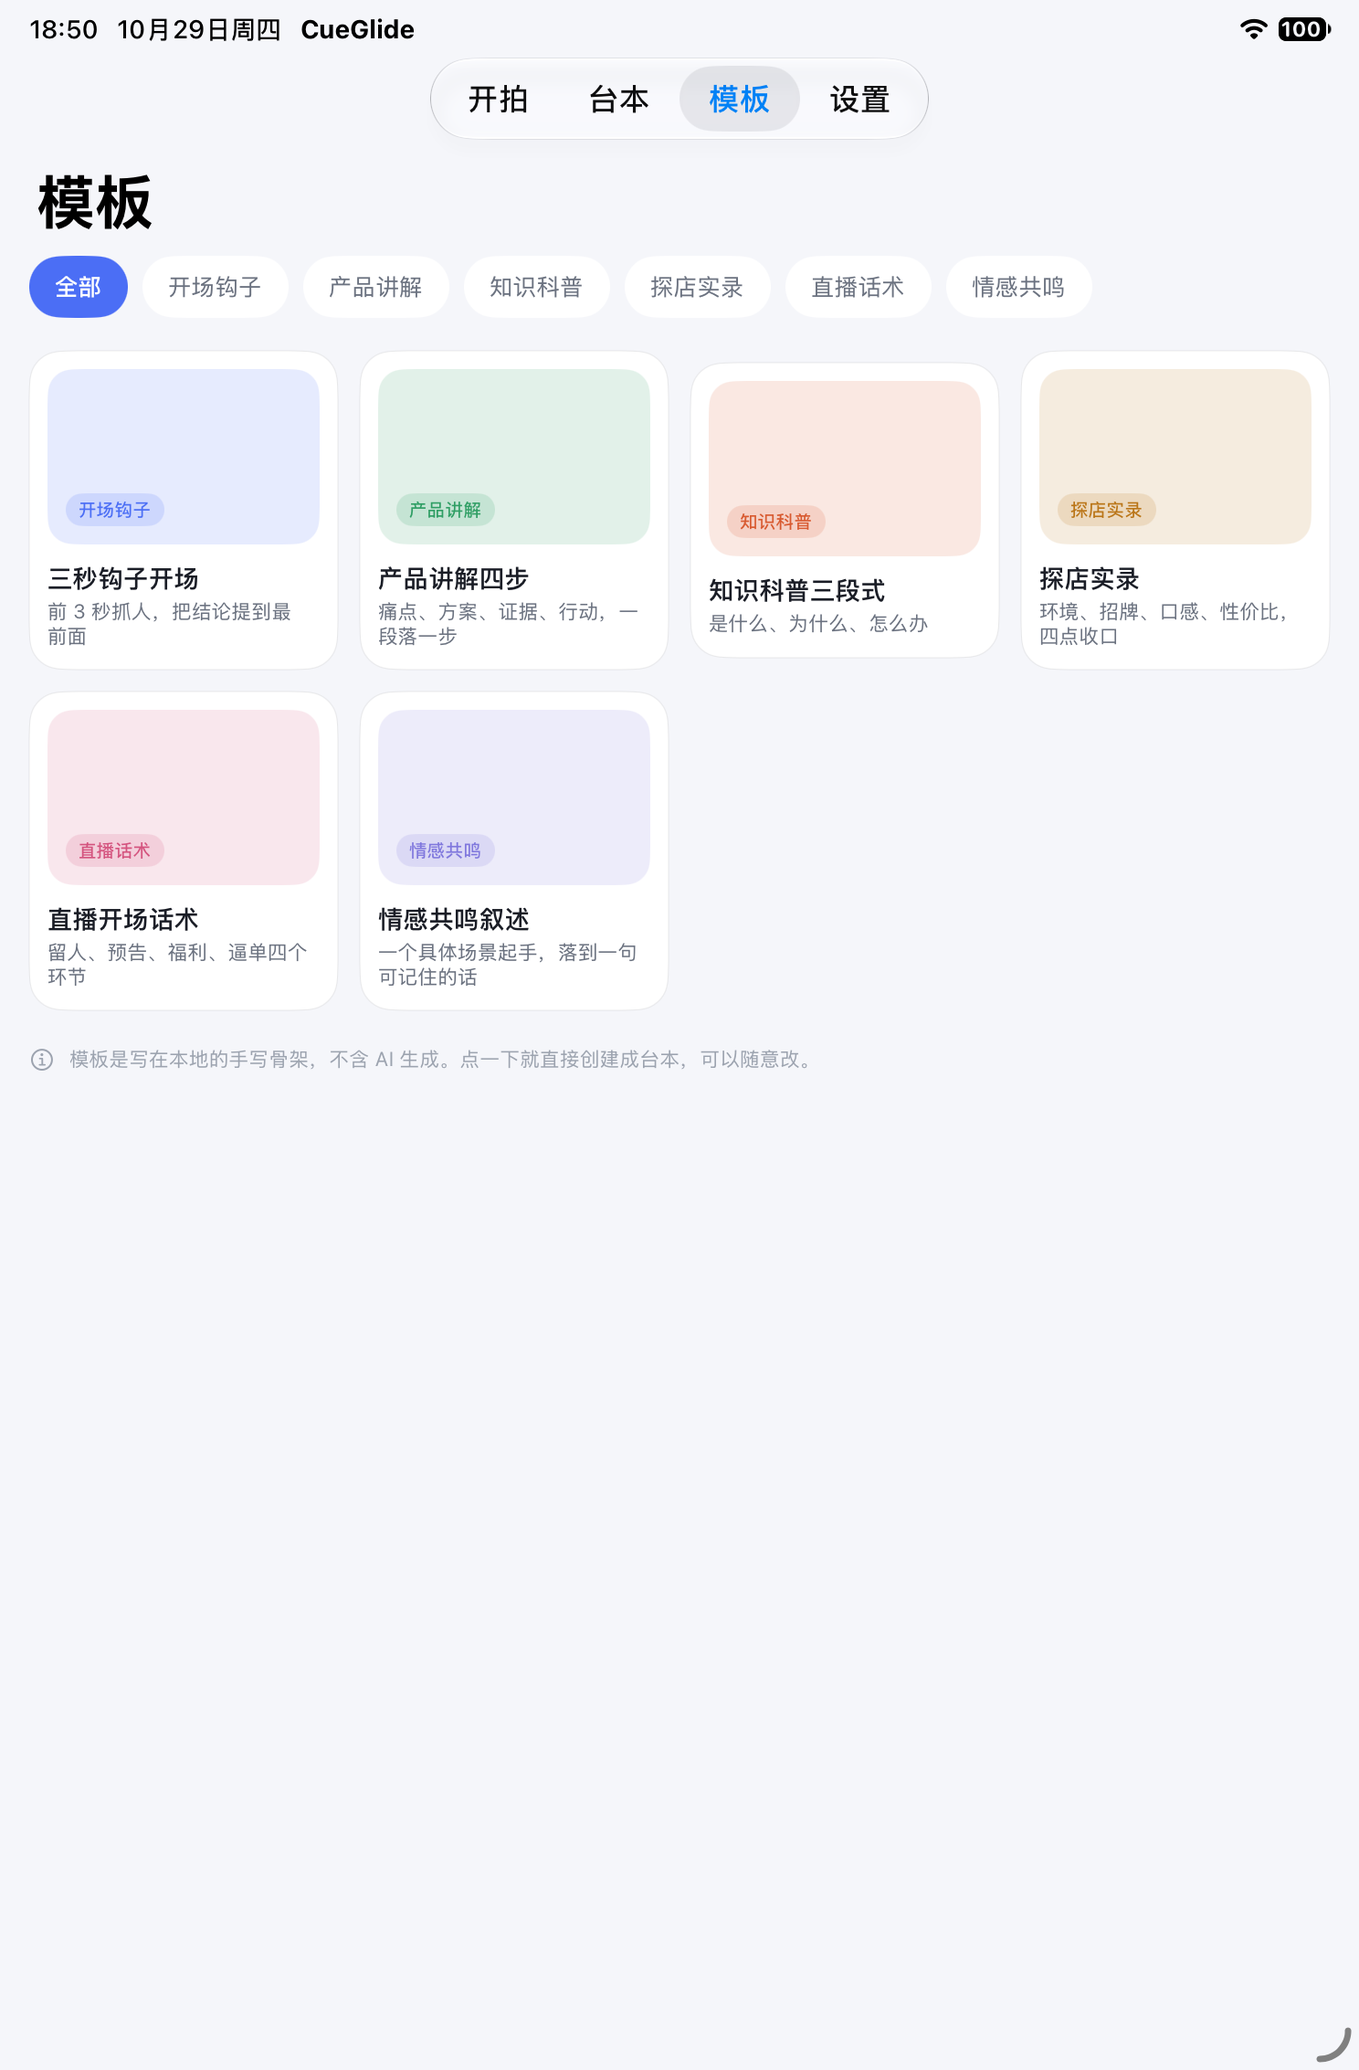
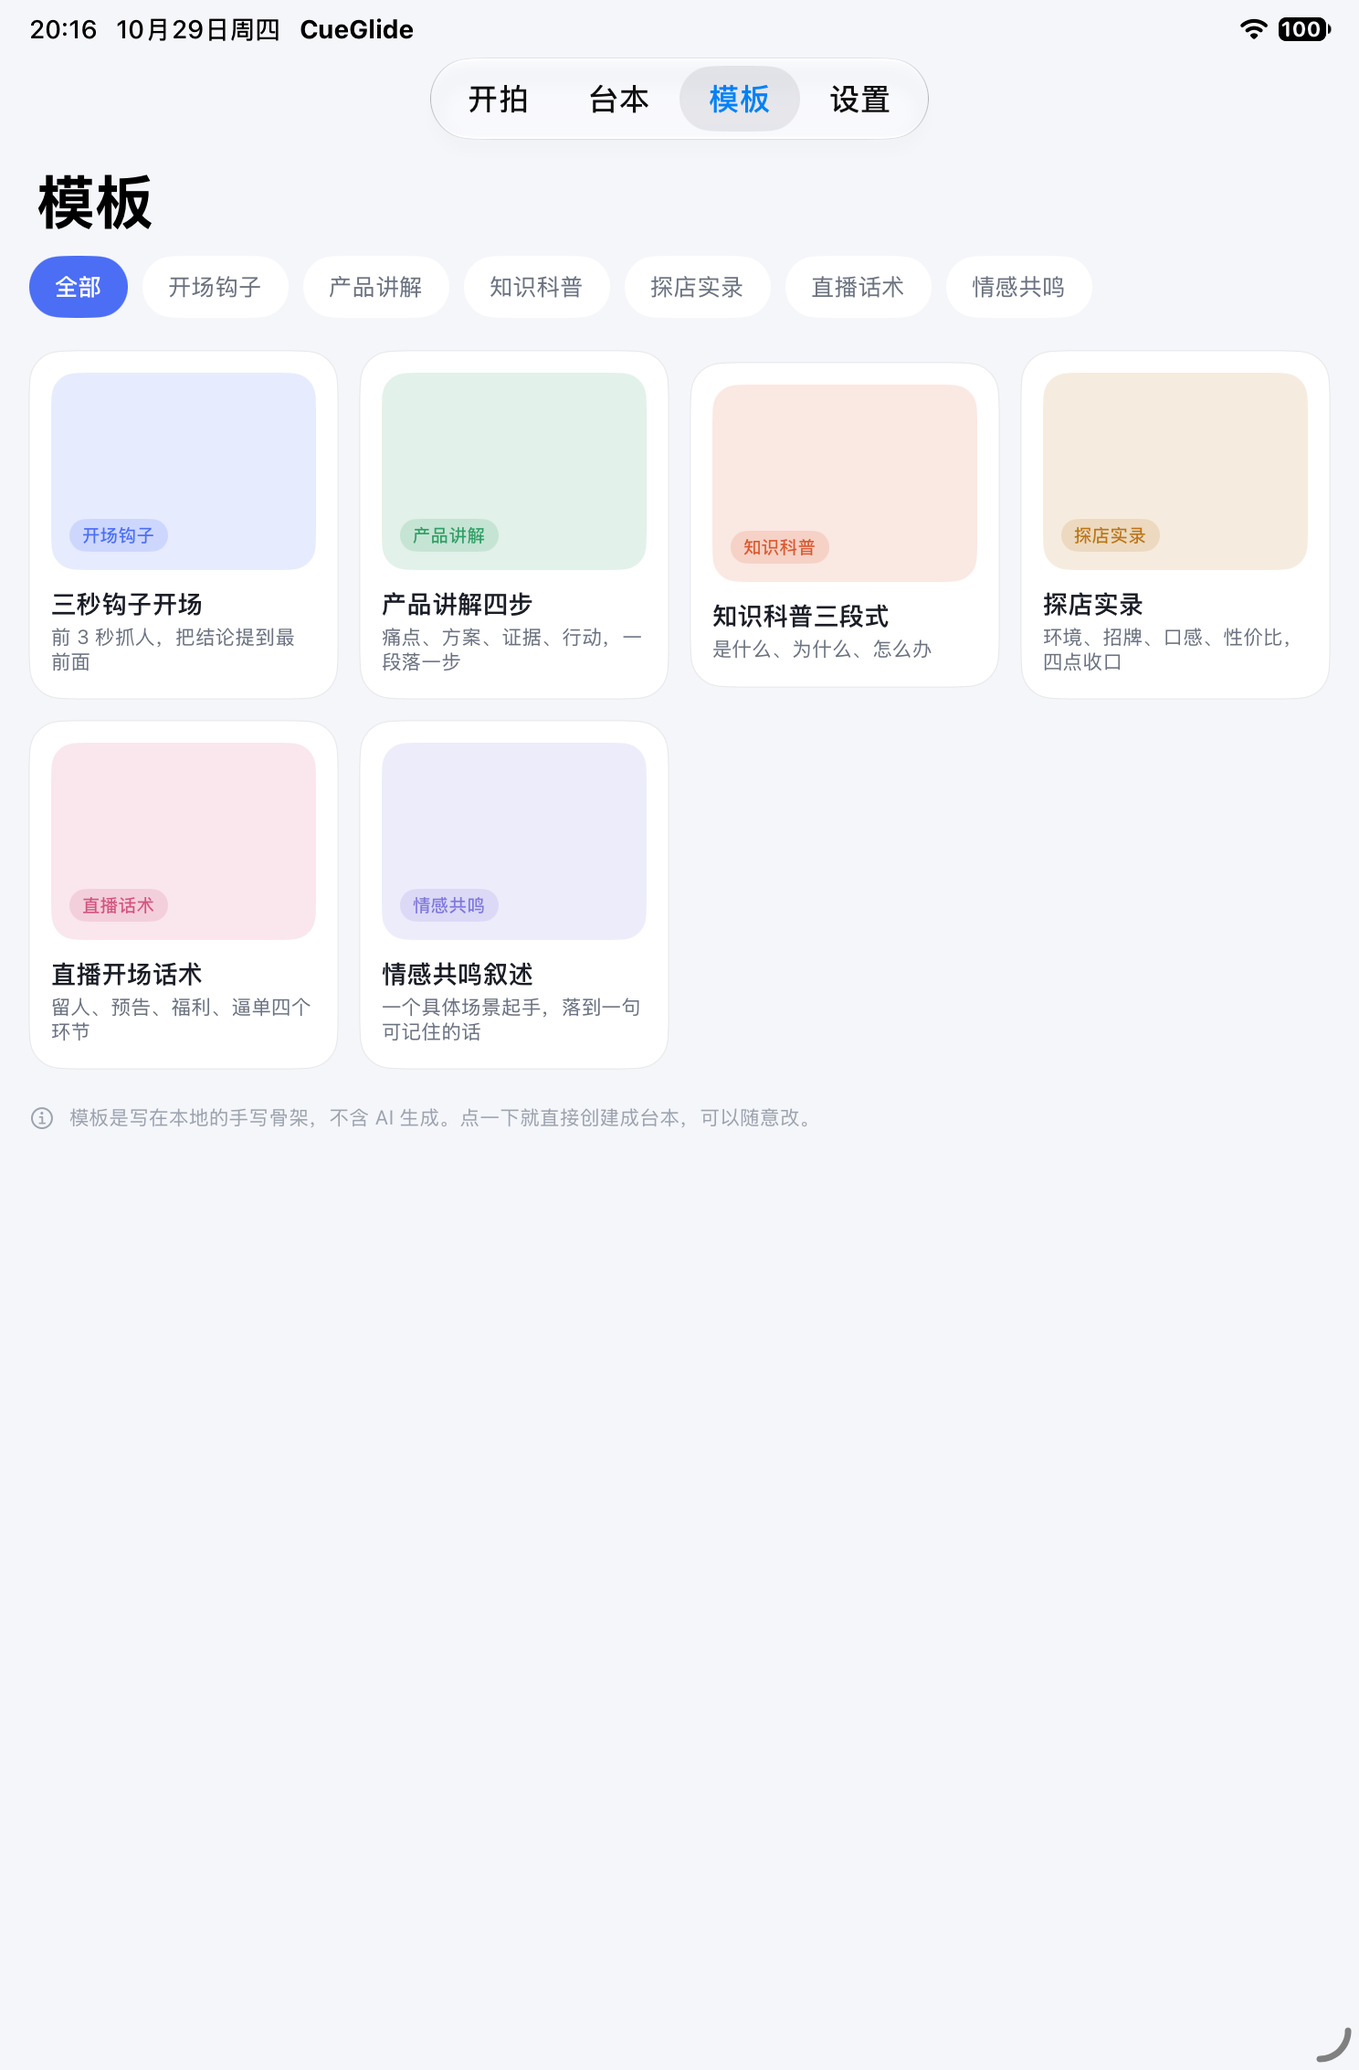
feat: 0.0.2 阅读线上移与卡片留白
- 提词页阅读线从屏高 20% 上移到 14%，默认更贴近前置摄像头，视线更接近镜头轴心
- 顶部按钮上移收缩至 38pt，与首行文字不再重叠；顶部渐隐高度收窄到阅读线位置
- 台本卡片、首页主卡、快捷入口、模板卡片的行距与内边距统一加大
- 修复文本视图布局被手动 frame 干扰导致高度为 1pt、文字不渲染的问题，改由宿主容器接管并在 layoutSubviews 中撑满
- 修复首帧在 0x0 尺寸下测量失败后永不再测的问题，未测出时强制重建

diff --git a/CueGlide/Core/PromptEngine/PrompterRenderer.swift b/CueGlide/Core/PromptEngine/PrompterRenderer.swift
@@ -4,6 +4,36 @@ import UIKit
 /// 1. 把稿件排版成一份 NSAttributedString，并缓存「词 → 行 → y 坐标」；
 /// 2. 按浮点词索引设置 contentOffset；
 /// 3. 增量更新已读变淡与当前词高亮，每次只改 1–3 个词的属性。
+/// 承载 UITextView 的容器。SwiftUI 只管理这个容器，容器自己把 textView 撑满，
+/// 避免 UIViewRepresentable 的自动布局与手动设 frame 打架导致高度为 1。
+final class PrompterHostView: UIView {
+
+    let textView = UITextView(usingTextLayoutManager: false)
+    var onLayout: ((CGSize) -> Void)?
+    private var lastSize: CGSize = .zero
+
+    override init(frame: CGRect) {
+        super.init(frame: frame)
+        addSubview(textView)
+    }
+
+    required init?(coder: NSCoder) {
+        fatalError("init(coder:) has not been implemented")
+    }
+
+    override func layoutSubviews() {
+        super.layoutSubviews()
+        if textView.frame != bounds {
+            textView.frame = bounds
+        }
+        guard bounds.width > 1, bounds.height > 1 else { return }
+        if abs(bounds.width - lastSize.width) > 0.5 || abs(bounds.height - lastSize.height) > 0.5 {
+            lastSize = bounds.size
+            onLayout?(bounds.size)
+        }
+    }
+}
+
 @MainActor
 final class PrompterRenderer {
 
@@ -18,7 +48,8 @@ final class PrompterRenderer {
         let minY: CGFloat
     }
 
-    let textView: UITextView
+    let hostView: PrompterHostView
+    var textView: UITextView { hostView.textView }
 
     private(set) var tokenized: TokenizedScript
     private(set) var config: DisplayConfig
@@ -34,7 +65,8 @@ final class PrompterRenderer {
         self.config = config
 
         // 提词需要全篇精确坐标，用 TextKit 1 的 NSLayoutManager 一次性测量更直接。
-        let view = UITextView(usingTextLayoutManager: false)
+        let host = PrompterHostView()
+        let view = host.textView
         view.isEditable = false
         view.isSelectable = false
         view.isScrollEnabled = true
@@ -46,7 +78,7 @@ final class PrompterRenderer {
         view.textContainerInset = .zero
         view.contentInset = .zero
         view.layoutManager.allowsNonContiguousLayout = false
-        self.textView = view
+        self.hostView = host
 
         rebuildText()
     }
@@ -68,7 +100,8 @@ final class PrompterRenderer {
         }
         config = newConfig
 
-        if needsRebuild || abs(width - lastLayoutWidth) > 0.5 {
+        // 上一次测量如果在视图还没布局时失败，参数虽未变也必须重建，否则永远测不出来。
+        if needsRebuild || !isMeasured || abs(width - lastLayoutWidth) > 0.5 {
             rebuildText(width: width)
         } else {
             textView.backgroundColor = config.palette.background
@@ -79,14 +112,6 @@ final class PrompterRenderer {
 
     private func rebuildText(width: CGFloat = 0) {
         lastLayoutWidth = width
-        if width > 1 {
-            textView.frame = CGRect(
-                x: textView.frame.minX,
-                y: textView.frame.minY,
-                width: width,
-                height: max(textView.frame.height, 1)
-            )
-        }
         textView.backgroundColor = config.palette.background
         textView.textContainerInset = insets(for: viewportHeight, width: width)
 
@@ -113,7 +138,7 @@ final class PrompterRenderer {
         let layoutManager = textView.layoutManager
         let textContainer = textView.textContainer
         let storage = textView.textStorage
-        guard storage.length > 0, textView.bounds.width > 1 else {
+        guard storage.length > 0, textView.bounds.width > 1, textView.bounds.height > 1 else {
             lines = []
             metrics = Metrics()
             return
@@ -175,10 +200,15 @@ final class PrompterRenderer {
 
     /// 视口尺寸确定或变化后调用，重设内容内边距并重新测量。
     func setViewportHeight(_ height: CGFloat) {
-        guard height > 1, abs(height - viewportHeight) > 1 else { return }
-        viewportHeight = height
-        textView.textContainerInset = insets(for: height)
-        measure()
+        guard height > 1 else { return }
+        let changed = abs(height - viewportHeight) > 1
+        if changed {
+            viewportHeight = height
+            textView.textContainerInset = insets(for: height)
+        }
+        if changed || !isMeasured {
+            measure()
+        }
     }
 
     /// 宽度变化时（折叠展开、旋转、外接屏）重算列宽与内边距。

diff --git a/CueGlide/Features/Prompter/PrompterView.swift b/CueGlide/Features/Prompter/PrompterView.swift
@@ -22,6 +22,7 @@ struct PrompterView: View {
                 background.ignoresSafeArea()
 
                 PrompterTextHost(renderer: viewModel.renderer)
+                    .frame(maxWidth: .infinity, maxHeight: .infinity)
                     .scaleEffect(
                         x: viewModel.display.mirror.flipsHorizontally ? -1 : 1,
                         y: viewModel.display.mirror.flipsVertically ? -1 : 1
@@ -68,13 +69,13 @@ struct PrompterView: View {
                 LinearGradient(
                     stops: [
                         .init(color: background, location: 0),
-                        .init(color: background, location: 0.55),
+                        .init(color: background, location: 0.68),
                         .init(color: background.opacity(0), location: 1)
                     ],
                     startPoint: .top,
                     endPoint: .bottom
                 )
-                .frame(height: 140)
+                .frame(height: 122)
             }
             .overlay(alignment: .bottom) {
                 LinearGradient(
@@ -141,7 +142,7 @@ struct PrompterView: View {
                 } label: {
                     Image(systemName: "xmark")
                         .font(.system(size: 15, weight: .semibold))
-                        .frame(width: 40, height: 40)
+                        .frame(width: 38, height: 38)
                 }
                 .buttonStyle(.plain)
                 .glassEffect(.regular, in: .circle)
@@ -155,13 +156,13 @@ struct PrompterView: View {
                 } label: {
                     Image(systemName: "arrow.left.arrow.right")
                         .font(.system(size: 14, weight: .semibold))
-                        .frame(width: 40, height: 40)
+                        .frame(width: 38, height: 38)
                 }
                 .buttonStyle(.plain)
                 .glassEffect(.regular, in: .circle)
             }
             .padding(.horizontal, 16)
-            .padding(.top, 54)
+            .padding(.top, 46)
 
             Spacer()
 
@@ -270,11 +271,16 @@ struct PrompterView: View {
 private struct PrompterTextHost: UIViewRepresentable {
     let renderer: PrompterRenderer
 
-    func makeUIView(context: Context) -> UITextView {
-        renderer.textView
+    func makeUIView(context: Context) -> PrompterHostView {
+        renderer.hostView
     }
 
-    func updateUIView(_ uiView: UITextView, context: Context) {}
+    func updateUIView(_ uiView: PrompterHostView, context: Context) {}
+
+    /// UIViewRepresentable 没有固有尺寸，不显式声明的话 SwiftUI 可能给 0 高度。
+    func sizeThatFits(_ proposal: ProposedViewSize, uiView: PrompterHostView, context: Context) -> CGSize? {
+        CGSize(width: proposal.width ?? 0, height: proposal.height ?? 0)
+    }
 }
 
 // MARK: - 参数面板

diff --git a/CueGlide/Features/Home/HomeView.swift b/CueGlide/Features/Home/HomeView.swift
@@ -68,7 +68,7 @@ struct HomeView: View {
     // MARK: - 主卡
 
     private func heroCard(_ script: Script) -> some View {
-        VStack(alignment: .leading, spacing: 14) {
+        VStack(alignment: .leading, spacing: 16) {
             HStack(spacing: 6) {
                 Image(systemName: "clock.arrow.circlepath")
                     .font(.system(size: 11, weight: .semibold))
@@ -112,7 +112,7 @@ struct HomeView: View {
                 .buttonStyle(.plain)
             }
         }
-        .padding(18)
+        .padding(20)
         .frame(maxWidth: .infinity, alignment: .leading)
         .background(Theme.surface, in: .rect(cornerRadius: Theme.cardRadius))
         .overlay {
@@ -130,7 +130,7 @@ struct HomeView: View {
                 .font(Theme.captionFont)
                 .foregroundStyle(Theme.textSecondary)
         }
-        .padding(18)
+        .padding(20)
         .frame(maxWidth: .infinity, alignment: .leading)
         .background(Theme.surface, in: .rect(cornerRadius: Theme.cardRadius))
         .overlay {
@@ -205,8 +205,8 @@ struct HomeView: View {
                     .foregroundStyle(Theme.textSecondary)
                     .lineLimit(1)
             }
-            .padding(14)
-            .frame(maxWidth: .infinity, minHeight: 108, alignment: .leading)
+            .padding(16)
+            .frame(maxWidth: .infinity, minHeight: 122, alignment: .leading)
             .background(tint, in: .rect(cornerRadius: 16))
         }
         .buttonStyle(.plain)

diff --git a/CueGlide/Features/Scripts/ScriptListView.swift b/CueGlide/Features/Scripts/ScriptListView.swift
@@ -157,7 +157,7 @@ struct ScriptListView: View {
     // MARK: - 卡片
 
     private func scriptCard(_ script: Script) -> some View {
-        VStack(alignment: .leading, spacing: 10) {
+        VStack(alignment: .leading, spacing: 13) {
             HStack(alignment: .top, spacing: 10) {
                 Image(systemName: "doc.text.fill")
                     .font(.system(size: 13))
@@ -165,7 +165,7 @@ struct ScriptListView: View {
                     .padding(8)
                     .background(Theme.brandSoft, in: .rect(cornerRadius: 9))
 
-                VStack(alignment: .leading, spacing: 4) {
+                VStack(alignment: .leading, spacing: 6) {
                     Text(script.title.isEmpty ? "未命名台本" : script.title)
                         .font(.system(size: 16, weight: .semibold))
                         .foregroundStyle(Theme.textPrimary)
@@ -223,7 +223,7 @@ struct ScriptListView: View {
             .font(.system(size: 11))
             .foregroundStyle(Theme.textTertiary)
         }
-        .padding(14)
+        .padding(16)
         .frame(maxWidth: .infinity, alignment: .leading)
         .background(Theme.surface, in: .rect(cornerRadius: Theme.cardRadius))
         .overlay {

diff --git a/CueGlide/Features/Templates/TemplatesView.swift b/CueGlide/Features/Templates/TemplatesView.swift
@@ -75,7 +75,7 @@ struct TemplatesView: View {
                 ZStack(alignment: .bottomLeading) {
                     RoundedRectangle(cornerRadius: 14, style: .continuous)
                         .fill(Color(uiColor: UIColor(rgb: template.accentHex)).opacity(0.14))
-                        .frame(height: 96)
+                        .frame(height: 108)
 
                     Text(template.scene)
                         .font(.system(size: 10, weight: .medium))
@@ -103,7 +103,7 @@ struct TemplatesView: View {
                     .padding(.top, 3)
                     .padding(.bottom, 2)
             }
-            .padding(10)
+            .padding(12)
             .frame(maxWidth: .infinity, alignment: .leading)
             .background(Theme.surface, in: .rect(cornerRadius: 18))
             .overlay {

diff --git a/CueGlide/Features/Settings/SettingsView.swift b/CueGlide/Features/Settings/SettingsView.swift
@@ -257,7 +257,7 @@ struct SettingsView: View {
             content()
         }
         .padding(.horizontal, 16)
-        .padding(.vertical, 10)
+        .padding(.vertical, 12)
         .frame(maxWidth: .infinity, alignment: .leading)
         .background(Theme.surface, in: .rect(cornerRadius: 16))
         .overlay {
@@ -310,7 +310,7 @@ struct SettingsView: View {
 
 extension Bundle {
     var appVersion: String {
-        let short = infoDictionary?["CFBundleShortVersionString"] as? String ?? "0.0.1"
+        let short = infoDictionary?["CFBundleShortVersionString"] as? String ?? "0.0.2"
         let build = infoDictionary?["CFBundleVersion"] as? String ?? "1"
         return "\(short) (\(build))"
     }

diff --git a/CueGlide/Models/PromptConfig.swift b/CueGlide/Models/PromptConfig.swift
@@ -44,9 +44,9 @@ enum ReadingLinePosition: String, Codable, CaseIterable, Sendable, Identifiable 
     /// 阅读线距离屏幕顶部的比例，用来算 contentOffset 的锚点。
     var viewportRatio: Double {
         switch self {
-        case .nearCamera: 0.20
-        case .center: 0.42
-        case .lower: 0.62
+        case .nearCamera: 0.14
+        case .center: 0.38
+        case .lower: 0.58
         }
     }
 }

diff --git a/CueGlide/Features/Prompter/PrompterViewModel.swift b/CueGlide/Features/Prompter/PrompterViewModel.swift
@@ -36,6 +36,11 @@ final class PrompterViewModel {
         engine.onFrame = { [weak self] position in
             self?.handleFrame(position)
         }
+        renderer.hostView.onLayout = { [weak self] size in
+            MainActor.assumeIsolated {
+                self?.updateViewport(size)
+            }
+        }
     }
 
     // MARK: - 布局

diff --git a/docs/设计说明.md b/docs/设计说明.md
@@ -73,13 +73,13 @@
 |---|---|---|
 | 顶部 | 安全区下方 8pt 起 | 关闭按钮、镜像切换 |
 | 阅读区 | 约 62% | 滚动文本，首行位于阅读线上 |
-| 阅读线 | 距顶部约 18%–20% | 视觉锚点，默认贴近前置摄像头，可在设置中关闭参考线 |
+| 阅读线 | 距顶部约 14% | 视觉锚点，默认贴近前置摄像头，可在设置中关闭参考线 |
 | 底部控制区 | 约 20% | 进度、剩余时长、播放、字号、设置 |
 
 ### 4.2 视觉规则
 
 1. 阅读线默认贴近前置摄像头，让视线尽量接近镜头轴心，避免观众看出在读稿。
-2. 文本区上下各设渐隐遮罩，顶部 140pt、底部 260pt，避免文字硬切边缘。
+2. 文本区上下各设渐隐遮罩。顶部渐隐高度等于阅读线位置（屏高约 14%），底部 260pt，避免文字硬切边缘。
 3. 控制条播放后 3 秒自动淡出，点按屏幕唤回；淡出时保留进度指示。
 4. 镜像只作用于文字层，控制层保持正向；点击坐标反算回原坐标系。
 5. 已读文字降到 32% 不透明度，当前词高亮并加浅色背景块，未读保持主文字色。
@@ -278,6 +278,8 @@ ScrollConfig（滚动参数）
 5. **SF Symbol 在中文环境会本地化**。`textformat.size.smaller/larger` 会渲染成汉字，部分符号不可用会渲染成方块。提词页控制按钮改用 `minus` / `plus` / `arrow.left.arrow.right`。
 6. **浮动标签栏会遮挡内容**。滚动内容底部留白需 ≥96pt。
 7. **`CADisplayLink` 的 selector 回调**在 `@MainActor` 类中可直接使用，回调发生在主线程。
+8. **`UIViewRepresentable` 承载 `UITextView` 时不要手动设 frame**。SwiftUI 的自动布局与手动 frame 会打架，实测高度被压成 1pt，`textContainerInset` 的计算基准全错。正确做法是用一个容器 UIView 在 `layoutSubviews` 里把 textView 撑满，并实现 `sizeThatFits` 显式声明尺寸。
+9. **首帧测量失败后必须允许重测**。视图尚未布局时 `bounds` 为 0，测量会提前返回。如果重建条件只判断「参数是否变化」，参数没变就永远不再测，表现为文字完全不显示。
 
 ---
 

diff --git a/CHANGELOG.md b/CHANGELOG.md
@@ -2,6 +2,23 @@
 
 本项目遵循 [语义化版本](https://semver.org/lang/zh-CN/)，格式参考 [Keep a Changelog](https://keepachangelog.com/zh-CN/1.0.0/)。
 
+## [0.0.2] - 2026-10-29
+
+### 变更
+
+- 提词页阅读线上移到屏高 14%，默认贴近前置摄像头，视线更接近镜头轴心
+- 顶部按钮上移并收缩，与首行文字不再重叠
+- 顶部渐隐高度收窄到阅读线位置，不再压住首行
+
+### 修复
+
+- 修复提词页文字不渲染：文本视图改由宿主容器接管布局，避免 `UIViewRepresentable` 自动布局与手动设 frame 冲突导致高度只有 1pt
+- 修复首帧测量失败后永不再测的问题：参数未变时，只要尚未测出也强制重建
+
+### 优化
+
+- 台本卡片、首页主卡、快捷入口卡片、模板卡片的行距与内边距统一加大，阅读更舒展
+
 ## [0.0.1] - 2026-10-29
 
 第一个可用版本。核心是「能读稿」这一条链路跑通。
